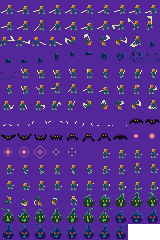
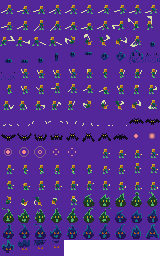
Start mini flame

diff --git a/src/main.rs b/src/main.rs
@@ -741,6 +741,7 @@ impl<'a> Player<'a> {
 enum EnemyData {
     Slime(SlimeData),
     Bat(BatData),
+    MiniFlame(MiniFlameData),
 }
 
 struct BatData {
@@ -983,6 +984,19 @@ impl SlimeData {
         instruction
     }
 }
+
+enum MiniFlameState {
+    Idle,
+    Chasing(Vector2D<Number>),
+    Dead(u16),
+}
+
+struct MiniFlameData {
+    state: MiniFlameState,
+    sprite_offset: u16,
+}
+
+impl MiniFlameData {}
 
 enum UpdateInstruction {
     None,
